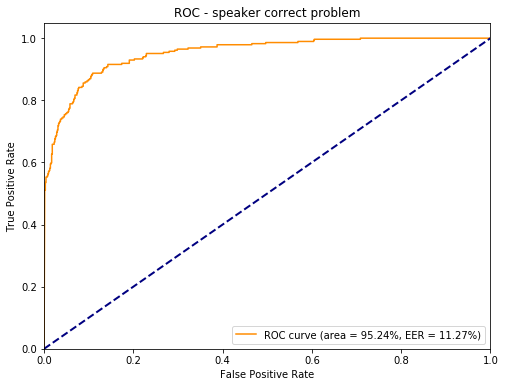
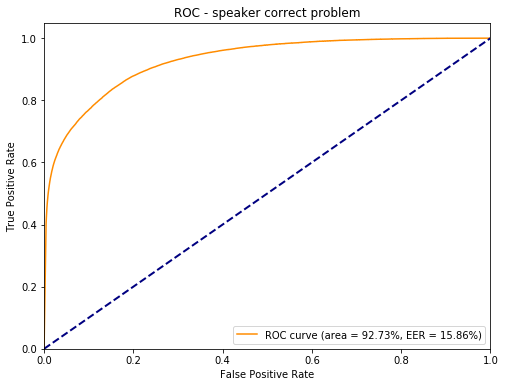
Feels finished

diff --git a/1_wstep.tex b/1_wstep.tex
@@ -30,12 +30,12 @@ przypuszczalnie większe niż problem identyfikacji. Zaletą bazowania na nagran
 jego nieinwazyjnego pozyskania. Jednakże niska skuteczność rozpoznawania sprawiała, że takie systemy
 pełnią tylko rolę drugiej warstwy zabezpieczeń, jako uzupełnienie tradycyjnego hasła.
 
-Systemu bazujące na sieciach neuronowych osiągnęły w ostatnim czasie znakomite wyniki w problemach
+Systemy bazujące na sieciach neuronowych osiągnęły w ostatnim czasie znakomite wyniki w problemach
 związanych z przetwarzaniem obrazów, dźwięków czy dokumentów tekstowych. Rekurencyjne sieci neuronowe
 stanowią u podstaw najnowszych systemów do rozpoznawania mowy. Można się spodziewać, iż mogą one
 osiągnąć również dobre wyniki przy rozpoznawaniu mówcy. Rzeczywiście, miały już miejsce próby
 wykorzystania głębokich sieci neuronowych np. przez zastąpienie nimi
-mikstur gaussowskich w obecnych systemach do rozpoznania
+\shortcut{GMM} (\foreign{gaussian mixture model}) w obecnych systemach do rozpoznania
 jaki fonem znajduje się w ramce nagrania i wydobycia z nich tzw.
 \foreign{bottleneck features}\cite{investigationOfBottleneck}.
 Korporacje jak Google również zgromadziły zbiory danych i zaproponowały architekturę bazującą na sieciach
@@ -62,18 +62,18 @@ Zostaną stworzone dwa systemy bazujące na innych metodach niż sieci neuronowe
 modele to:
 
 \begin{itemize}
-    \item System bazujący na miksturach wielowymiarowych rozkładów normalnych i modelu tła (\shortcut{GMM-UBM})
-    \item System wykorzystujący ukryty model Markowa z emisjami będącymi miksturami wielowymiarowych rozkładów normalnych (\shortcut{HMM-GMM})
-    \item System wykorzystujący rekurencyjną sieć neuronową do dopasowania ramek do fonemów, a następnie modelujący charakterystyczny sposób generowania określonych fonemów przez mówców za pomocą mikstur wielowymiarowych rozkładów normalnych.
+    \item System bazujący na miksturach wielowymiarowych rozkładów normalnych i modelu tła. (\shortcut{GMM-UBM}, \foreign{Gaussian Mixture Model - Universal Background Model})
+    \item System wykorzystujący ukryty model Markowa z emisjami będącymi miksturami wielowymiarowych rozkładów normalnych. (\shortcut{HMM-GMM}, \foreign{Hidden Markov Model - Gaussian Mixture Model})
+    \item System wykorzystujący rekurencyjną sieć neuronową do dopasowania ramek do fonemów, a następnie modelujący charakterystyczny sposób generowania określonych fonemów przez mówców za pomocą mikstur wielowymiarowych rozkładów normalnych. (\shortcut{DNN-GMM}, \foreign{Deep Neural Network - Gaussian Mixture Model})
 \end{itemize}
 
 Modele zostaną przetestowane na zbiorze \techname{RedDots} i porównane między sobą oraz z wynikami innych prac.
 Osobno zostanie zaprezentowana skuteczność weryfikacji mówcy oraz treści. Uwzględnione zostaną następujące miary jakości:
 
 \begin{itemize}
-    \item Krzywa \shortcut{ROC}
-    \item \shortcut{EER}
-    \item \shortcut{AUR}
+    \item Krzywa \shortcut{ROC} (\foreign{Receiver Operating Characteristic})
+    \item \shortcut{EER} (\foreign{Equal Error Rate})
+    \item \shortcut{AUR} (\foreign{Area Under Curve})
 \end{itemize}
 
 \section{Przegląd literatury}\label{sec:przeglad_literatury}

diff --git a/4_badania.tex b/4_badania.tex
@@ -144,7 +144,7 @@ i zwizualizowano pod tabelą.
         \\ \midrule
         \shortcut{GMM-UBM} & 4.69\% & 97.56\% & 6.04\% & 97.82\% & 3.20\% & 99.04\%
         \\
-        \shortcut{HMM-GMM} & 11.27\% & 95.24\% &   &   &   &
+        \shortcut{HMM-GMM} & 15.85\% & 92.73\% & - & - & 5.16\% & 98.32\%
         \\
         \shortcut{DNN-GMM} & 42.72\% & 62.89\% & 19.67\% & 85.79\% & 29.54\% & 78.85\%
         \\
@@ -200,9 +200,21 @@ i zwizualizowano pod tabelą.
 \end{figure}
 
 \begin{figure}[H]
-        \centering
-        \includegraphics[width=0.7\textwidth]{images/4_3_hmm_roc_speaker}
-        \caption{Wykres krzywej \shortcut{ROC} dla \shortcut{HMM-GMM}, pierwszego zadania \techname{RedDots} i weryfikacji mówcy}
-        \label{fig:4_3_hmm_roc_speaker}
 \end{figure}
 
+
+\begin{figure}[H]
+    \centering
+    \begin{minipage}{.5\textwidth}
+        \centering
+        \includegraphics[width=0.9\textwidth]{images/4_3_hmm_roc_speaker}
+        \caption{Wykres krzywej \shortcut{ROC} dla \shortcut{HMM-GMM}, pierwszego zadania \techname{RedDots} i weryfikacji mówcy}
+        \label{fig:4_3_hmm_roc_speaker}
+    \end{minipage}%
+    \begin{minipage}{.5\textwidth}
+        \centering
+        \includegraphics[width=0.9\textwidth]{images/4_3_hmm_roc_both}
+        \caption{Wykres krzywej \shortcut{ROC} dla \shortcut{HMM-GMM}, pierwszego zadania \techname{RedDots} i jednoczesnejj weryfikacji mówcy i treści}
+        \label{fig:4_3_hmm_roc_both}
+    \end{minipage}
+\end{figure}
